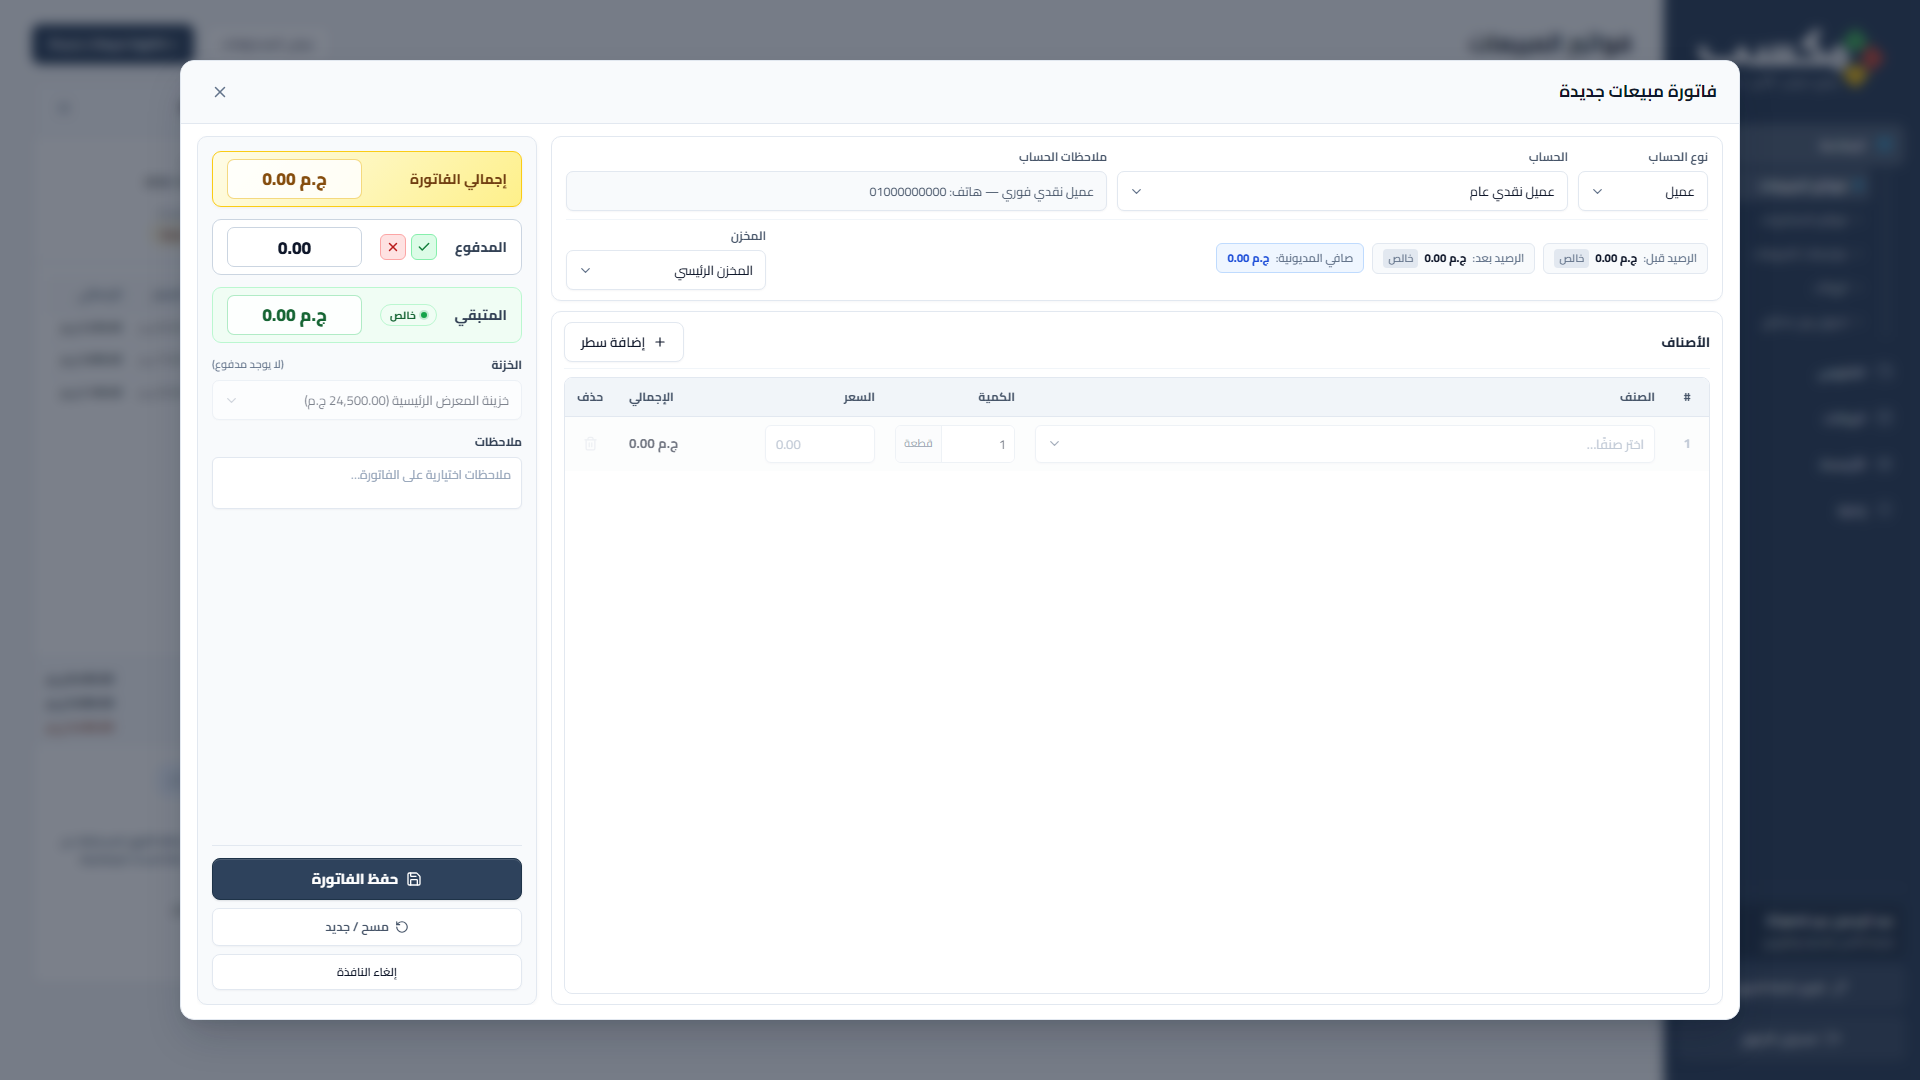
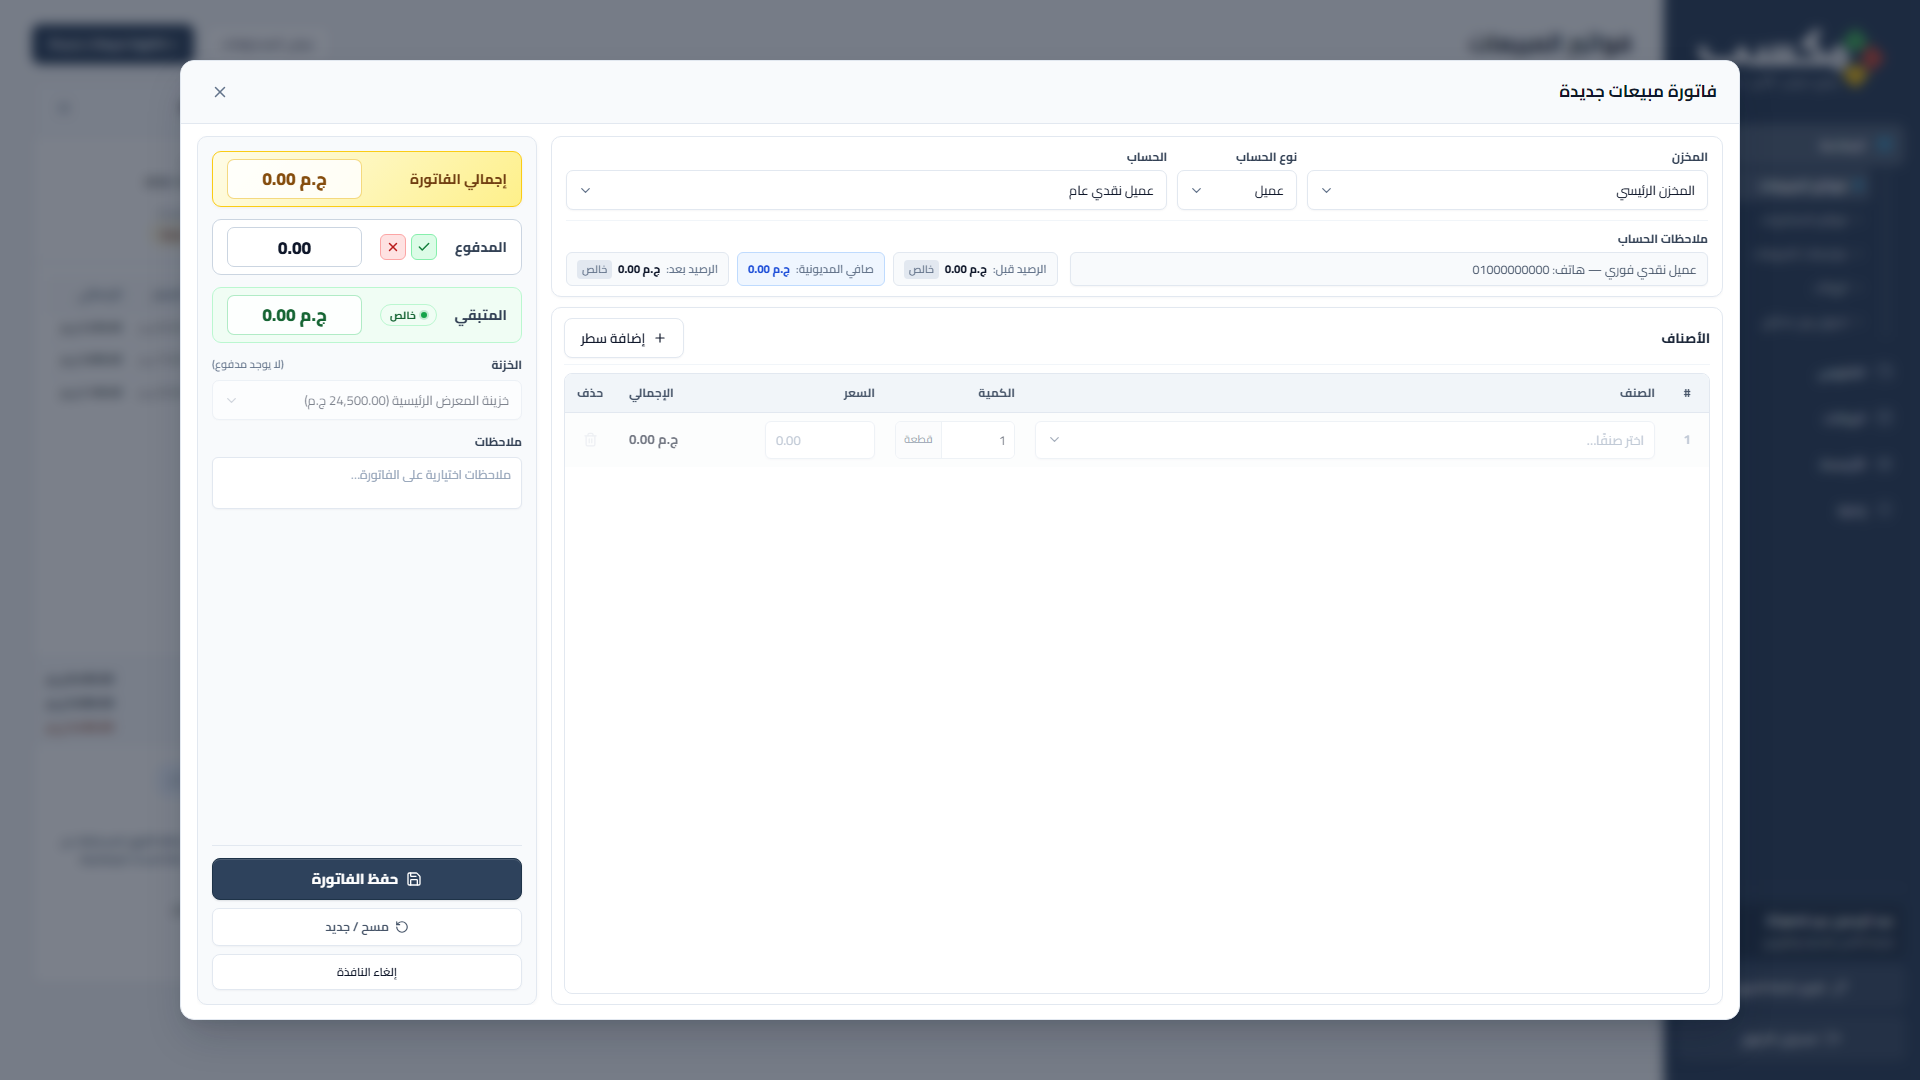
feat(invoices): rearrange account header rows with warehouse, account, notes, and balance stats

diff --git a/src/components/InvoiceForm.tsx b/src/components/InvoiceForm.tsx
@@ -60,12 +60,15 @@ export default function InvoiceForm({
     : kind === 'sale' || kind === 'sale_return'
       ? 'cash_customer'
       : 'cash_supplier';
-  const defaultAccountId = accounts.find((account) => account.system_key === defaultSystemKey)?.id ?? '';
   const defaultAccountKind: AccountKind = editing?.invoice.account_kind ?? (
     isWaste ? 'waste' : kind === 'sale' || kind === 'sale_return' ? 'customer' : 'supplier'
   );
+  const defaultAccountId = accounts.find((account) => account.system_key === defaultSystemKey)?.id
+    ?? accounts.find((account) => account.name.includes('عميل نقدي'))?.id
+    ?? accounts.find((account) => account.kind === defaultAccountKind)?.id
+    ?? '';
   const defaultWarehouse = warehouses.find((w) => w.is_primary && w.is_active !== false)
-    ?? warehouses.find((w) => w.name === 'المخزن الرئيسي' && w.is_active !== false)
+    ?? warehouses.find((w) => w.name.includes('المخزن الرئيسي') && w.is_active !== false)
     ?? warehouses.find((w) => w.is_active !== false);
 
   const [date] = useState(editing?.invoice.invoice_date ?? today());
@@ -310,8 +313,24 @@ export default function InvoiceForm({
         <div className="invoice-part-right">
           {/* كارت رأس الحساب والبيانات الأساسية */}
           <div className="right-card account-header-card">
-            {/* الصف الأول: نوع الحساب - الحساب - ملاحظات الحساب */}
-            <div className="account-header-grid">
+            {/* الصف الأول: المخزن (افتراضي المخزن الرئيسي) - نوع الحساب - الحساب */}
+            <div className="account-header-row1">
+              <label className="field-warehouse-select">
+                <span>المخزن</span>
+                <SearchableSelect
+                  value={warehouseId}
+                  options={selectableWarehouses.map((warehouse) => ({
+                    value: warehouse.id,
+                    label: `${warehouse.name}${warehouse.is_active === false ? ' — موقوف' : ''}`,
+                  }))}
+                  onChange={setWarehouseId}
+                  placeholder={selectableWarehouses.length === 0 ? 'لا يوجد مخزن نشط' : 'اختر المخزن…'}
+                  searchPlaceholder="اكتب للبحث عن مخزن…"
+                  emptyMessage="لا يوجد مخزن مطابق"
+                  required
+                />
+              </label>
+
               {!isWaste && (
                 <label className="field-account-kind">
                   <span>نوع الحساب</span>
@@ -343,7 +362,10 @@ export default function InvoiceForm({
                   />
                 </label>
               )}
+            </div>
 
+            {/* الصف الثاني: ملاحظات الحساب - الرصيد قبل - صافي المديونية - الرصيد بعد */}
+    <div className="account-header-row2">
               {!isWaste && (
                 <label className="field-account-notes">
                   <span>ملاحظات الحساب</span>
@@ -357,12 +379,9 @@ export default function InvoiceForm({
                   />
                 </label>
               )}
-            </div>
 
-            {/* الصف الثاني: الرصيد قبل - الرصيد بعد - صافي المديونية - المخزن */}
-            <div className="balance-warehouse-strip">
               {selectedAccount && !isWaste && (
-                <>
+                <div className="account-balance-pills">
                   <div className="stat-pill">
                     <span>الرصيد قبل:</span>
                     <strong
@@ -378,6 +397,13 @@ export default function InvoiceForm({
                         ? accountKind === 'customer' ? 'دائن (له)' : 'مدين (عنده)'
                         : 'خالص'}
                     </span>
+                  </div>
+
+                  <div className="stat-pill highlight">
+                    <span>صافي المديونية:</span>
+                    <strong dir="ltr" className="num">
+                      {money(netInvoiceDebt)}
+                    </strong>
                   </div>
 
                   <div className="stat-pill">
@@ -396,31 +422,8 @@ export default function InvoiceForm({
                         : 'خالص'}
                     </span>
                   </div>
-
-                  <div className="stat-pill highlight">
-                    <span>صافي المديونية:</span>
-                    <strong dir="ltr" className="num">
-                      {money(netInvoiceDebt)}
-                    </strong>
-                  </div>
-                </>
+                </div>
               )}
-
-              <label className="field-warehouse-select" style={{ marginInlineStart: 'auto', minWidth: '200px' }}>
-                <span>المخزن</span>
-                <SearchableSelect
-                  value={warehouseId}
-                  options={selectableWarehouses.map((warehouse) => ({
-                    value: warehouse.id,
-                    label: `${warehouse.name}${warehouse.is_active === false ? ' — موقوف' : ''}`,
-                  }))}
-                  onChange={setWarehouseId}
-                  placeholder={selectableWarehouses.length === 0 ? 'لا يوجد مخزن نشط' : 'اختر المخزن…'}
-                  searchPlaceholder="اكتب للبحث عن مخزن…"
-                  emptyMessage="لا يوجد مخزن مطابق"
-                  required
-                />
-              </label>
             </div>
           </div>
 

diff --git a/src/styles/pages/invoice-form.css b/src/styles/pages/invoice-form.css
@@ -935,39 +935,78 @@
 
 .account-header-card {
   flex-shrink: 0;
+  gap: 10px;
 }
 
-.account-header-grid {
+.account-header-row1 {
   display: grid;
-  grid-template-columns: 130px minmax(180px, 1fr) minmax(180px, 1.2fr);
+  grid-template-columns: minmax(180px, 1.2fr) 120px minmax(220px, 1.8fr);
   gap: 10px;
   align-items: flex-end;
+}
+
+.account-header-row1 label {
+  display: flex;
+  flex-direction: column;
+  gap: 4px;
+  font-size: 12px;
+  font-weight: 700;
+  color: #334155;
+}
+
+.account-header-row2 {
+  display: flex;
+  align-items: flex-end;
+  gap: 12px;
+  padding-top: 8px;
+  border-top: 1px solid #f1f5f9;
+}
+
+.account-header-row2 .field-account-notes {
+  flex: 1;
+  min-width: 200px;
+  display: flex;
+  flex-direction: column;
+  gap: 4px;
+}
+
+.account-header-row2 .field-account-notes span {
+  font-size: 12px;
+  font-weight: 700;
+  color: #334155;
 }
 
 .account-notes-input {
   background: #f8fafc !important;
   color: #475569 !important;
   font-size: 12.5px !important;
+  height: 34px !important;
+  min-height: 34px !important;
+  padding: 0 10px !important;
+  border-radius: 6px !important;
+  box-sizing: border-box !important;
 }
 
-.balance-warehouse-strip {
+.account-balance-pills {
   display: flex;
   align-items: center;
   gap: 8px;
-  flex-wrap: wrap;
-  padding-top: 6px;
-  border-top: 1px solid #f1f5f9;
+  flex-wrap: nowrap;
+  flex-shrink: 0;
 }
 
 .stat-pill {
-  display: flex;
+  display: inline-flex;
   align-items: center;
   gap: 6px;
-  padding: 5px 10px;
+  height: 34px;
+  padding: 0 10px;
   background: #f8fafc;
   border: 1px solid #e2e8f0;
   border-radius: 6px;
   font-size: 11.5px;
+  box-sizing: border-box;
+  white-space: nowrap;
 }
 
 .stat-pill span {
